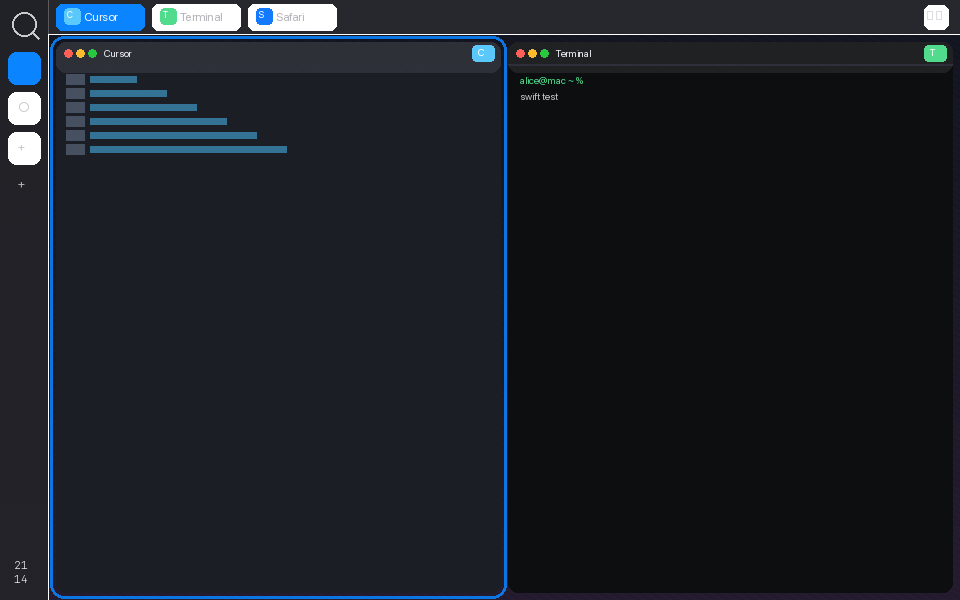
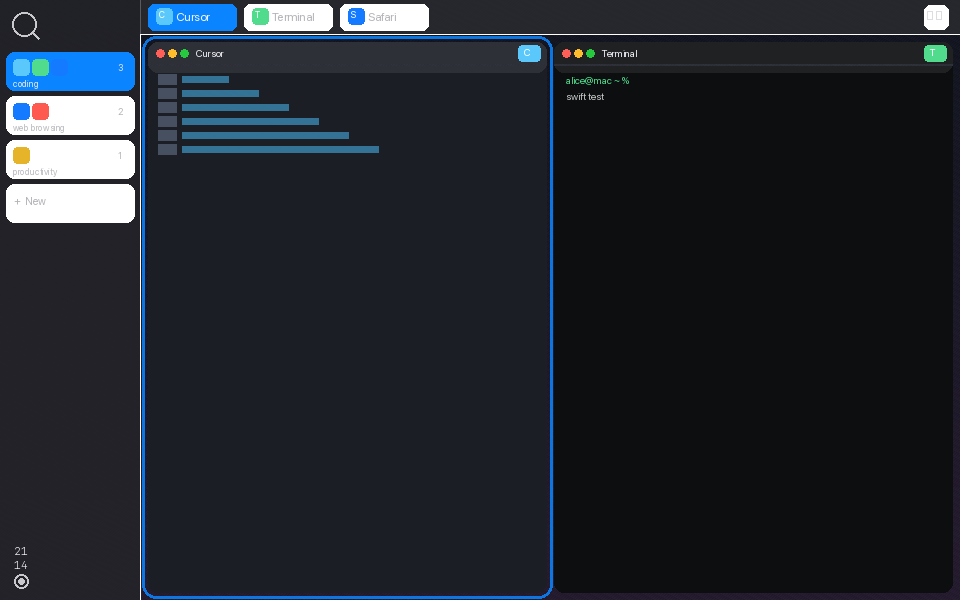
docs(media): regenerate the showcases against the new rail
Every still and loop in docs/media/ was drawn against the 48 pt glyph
rail, so the README has been showing a rail the app no longer has since
the redesign landed. The renderer hardcoded RAIL = 48 and threw away the
per-workspace app list its own scenes already carried.

It now draws what the shell draws: one full-width row per workspace with
an app-icon strip (deduped, capped at four then "+N"), the window count,
and the category label — including a small mirror of the Swift category
table and the same first-appearance tie-break, so the rendered label says
what the running app would say. Plus the "+ New" row and the settings cog.

These remain renders, not live captures, as CLAUDE.md requires them to be
labelled. Real captures still want a Mac running the build.

Claude-Session: https://claude.ai/code/session_01WHJueato2yWt8yPLW17X4i

diff --git a/Scripts/render-m2-media.py b/Scripts/render-m2-media.py
@@ -11,7 +11,7 @@ from pathlib import Path
 from PIL import Image, ImageDraw, ImageFilter, ImageFont
 
 W, H = 960, 600
-RAIL, TOP, GAP, R = 48, 34, 8, 10
+RAIL, TOP, GAP, R = 140, 34, 8, 10
 ACCENT = (10, 132, 255)
 OUT = Path(__file__).resolve().parents[1] / "docs" / "media"
 FPS = 14
@@ -29,6 +29,19 @@ def font(size, mono=False):
 
 F12, F11, F10, F9 = font(12), font(11), font(10), font(9)
 FCLK = font(11, True)
+
+# Mirrors AppCategories.table in SpacialShellKit for the five apps these scenes use, so the
+# rendered rail says the same thing the running app would.
+CATEGORY = {
+    "Cursor": "coding", "Terminal": "terminal", "Safari": "web browsing",
+    "Mail": "productivity", "Notes": "productivity",
+}
+def summarise(names):
+    """Most common category, ties broken by first appearance — same rule as the Swift side."""
+    cats = [CATEGORY[n] for n in dict.fromkeys(names) if n in CATEGORY]
+    if not cats: return None
+    best = max(cats.count(c) for c in cats)
+    return next(c for c in cats if cats.count(c) == best)
 
 APPS = {
     "Cursor":   ((28, 30, 38), (90, 200, 250), "C"),
@@ -136,19 +149,33 @@ def draw_chrome(base, workspaces, active, layout, tabs, focused_tab):
     # search
     d.ellipse((12, 12, 36, 36), outline=(200, 200, 205, 180), width=2)
     d.line((32, 32, 38, 38), fill=(200, 200, 205, 180), width=2)
-    # tiles
+    # workspace rows: app icons + window count + category label, as the shell draws them
     y0 = 52
-    for i, (name, _sym) in enumerate(workspaces):
-        x, y = 8, y0 + i * 40
+    row_h = 44
+    for i, (_name, apps) in enumerate(workspaces):
+        x, y = 6, y0 + i * row_h
         on = i == active
         fill = (*ACCENT, 46) if on else (255, 255, 255, 14)
-        rr(d, (x, y, x + 32, y + 32), 8, fill=fill)
-        glyph = "<>" if i == 0 else "○" if i == 1 else "+"
-        d.text((x + (6 if i == 0 else 10), y + 7), glyph, font=F12, fill=(*ACCENT, 255) if on else (200, 200, 205, 200))
-    plus_y = y0 + len(workspaces) * 40
-    d.text((18, plus_y + 4), "+", font=F12, fill=(180, 180, 185, 200))
-    d.text((14, H - 42), "21", font=FCLK, fill=(230, 230, 235, 230))
-    d.text((14, H - 28), "14", font=FCLK, fill=(230, 230, 235, 230))
+        rr(d, (x, y, RAIL - 6, y + row_h - 6), 8, fill=fill)
+        seen = list(dict.fromkeys(apps))
+        for j, app in enumerate(seen[:4]):
+            accent = APPS[app][1] if app in APPS else (160, 160, 165)
+            rr(d, (x + 7 + j * 19, y + 7, x + 7 + j * 19 + 16, y + 23), 4, fill=(*accent, 255))
+        if len(seen) > 4:
+            d.text((x + 7 + 4 * 19, y + 10), f"+{len(seen) - 4}", font=F9, fill=(210, 210, 215, 200))
+        d.text((RAIL - 22, y + 10), str(len(apps)), font=F9, fill=(230, 230, 235, 200) if on else (180, 180, 185, 190))
+        label = summarise(apps)
+        if label:
+            d.text((x + 7, y + 26), label, font=F9,
+                   fill=(235, 235, 240, 230) if on else (185, 185, 190, 200))
+    plus_y = y0 + len(workspaces) * row_h
+    rr(d, (6, plus_y, RAIL - 6, plus_y + row_h - 6), 8, fill=(255, 255, 255, 10))
+    d.text((14, plus_y + 10), "+  New", font=F11, fill=(180, 180, 185, 210))
+    # settings cog (primary display only), and the stacked clock above it
+    d.text((14, H - 56), "21", font=FCLK, fill=(230, 230, 235, 230))
+    d.text((14, H - 42), "14", font=FCLK, fill=(230, 230, 235, 230))
+    d.ellipse((14, H - 26, 28, H - 12), outline=(200, 200, 205, 180), width=2)
+    d.ellipse((18, H - 22, 24, H - 16), fill=(200, 200, 205, 180))
     # top bar
     bar = Image.new("RGBA", (W - RAIL, TOP), (44, 44, 48, 200))
     base.paste(bar, (RAIL, 0), bar)
@@ -185,7 +212,7 @@ def frame(workspaces, active, layout, tabs, focused, glow=1.0):
         if box and i != focused: draw_win(im, names[i], box, 0)
     if focused < len(vis) and vis[focused]:
         draw_win(im, names[focused], vis[focused], glow)
-    draw_chrome(im, [(w[0], "") for w in workspaces], active, layout, tabs, focused)
+    draw_chrome(im, workspaces, active, layout, tabs, focused)
     return im.convert("RGB")
 
 def tween(a, b, n):
